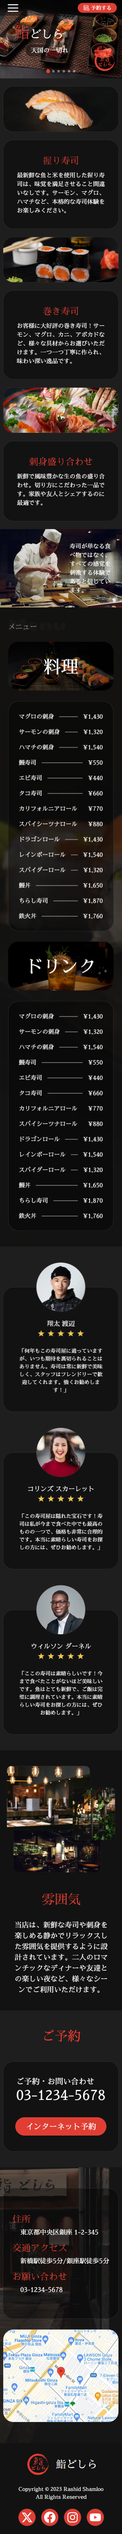
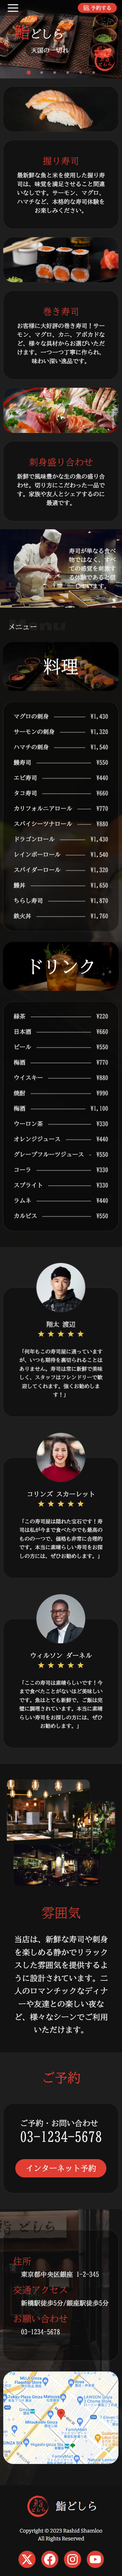
- changed the font from sawarabi mincho because it was missing a needed glyph
- added separate fonts for the japanese and english versions

- fixed the dataId usage in MenuItems component

- adjusted the size of the preparation section

- adjusted size of text in testimonial section

- adjusted the footer section for better line breaks

- added sr-only titles for sections that ere missing it

- updated screenshots reflecting new changes

Changed region(s): [[0.0, 0.0, 1.0, 0.9981], [0.0, 0.3119, 0.088, 0.3431]]

diff --git a/src/components/Preparation/Preparation.tsx b/src/components/Preparation/Preparation.tsx
@@ -10,7 +10,8 @@ import Reveal from '../common/Reveal';
 const Preparation = () => {
   const t = useTranslations('Preparation');
   return (
-    <section className="relative h-[240px] w-full overflow-hidden md:h-screen">
+    <section className="relative flex h-[240px] w-full items-center justify-center overflow-hidden sm:h-[360px] md:h-screen">
+      <h2 className="sr-only">{t('title')}</h2>
       <Image
         src="/images/preparation/bg.jpg"
         alt="Background"
@@ -18,13 +19,15 @@ const Preparation = () => {
         width="10"
         height="10"
         sizes="115vw"
-        className="absolute right-0 w-auto min-w-[115vw] max-w-none md:min-h-full"
+        className="absolute right-0 top-0 w-auto min-w-[115vw] max-w-none md:min-h-full"
       />
-      <Reveal className="absolute right-[5%] top-1/2 max-w-[40%] -translate-y-1/2 rounded-[32px] bg-black/10 p-2 md:p-[48px]">
-        <p className="text-[clamp(18px,4px_+_3vw,50px)] drop-shadow-md">
-          {t('preparation')}
-        </p>
-      </Reveal>
+      <div className="relative h-full w-[1296px] max-w-[95%]">
+        <Reveal className="absolute right-0 top-1/2 max-w-[46%] -translate-y-1/2 rounded-[32px] bg-black/10 p-2 md:right-[5%] md:p-[48px] lg:right-0">
+          <p className="text-center text-[clamp(18px,4px_+_3vw,50px)] drop-shadow-md">
+            {t('preparation')}
+          </p>
+        </Reveal>
+      </div>
     </section>
   );
 };

diff --git a/src/components/Footer/Footer.tsx b/src/components/Footer/Footer.tsx
@@ -4,6 +4,9 @@ import Image from 'next/image';
 // next-intl
 import { useTranslations } from 'next-intl';
 
+// fonts
+import { bitter } from '@/ui/fonts';
+
 // components
 import SocialMediaLinks from './SocialMediaLinks';
 
@@ -12,7 +15,7 @@ const Footer = () => {
   return (
     <footer className="flex items-center justify-center bg-bgDarkGray py-[24px]">
       <div className="flex w-[1296px] max-w-[95%] flex-col items-center justify-between gap-[24px] lg:flex-row">
-        <div className="flex items-center justify-center gap-[16px] lg:gap-[20px]">
+        <div className="flex flex-shrink-0 items-center justify-center gap-[16px] lg:gap-[20px]">
           <Image
             src="/images/logo.png"
             alt={t('logo')}
@@ -24,8 +27,13 @@ const Footer = () => {
           />
           <p className="text-[clamp(32px,20px_+_2vw,60px)]">{t('title')}</p>
         </div>
-        <div className="text-center text-[clamp(16px,4px_+_2vw,20px)]">
-          <p>Copyright © 2023 Rashid Shamloo</p>
+        <div
+          className={`${bitter.variable} font-bitter w-full text-center text-[clamp(16px,4px_+_2vw,20px)]`}
+        >
+          <p>
+            <span className="inline-block">Copyright © 2023</span>&nbsp;
+            <span className="inline-block">Rashid Shamloo</span>
+          </p>
           <p>All Rights Reserved</p>
         </div>
         <SocialMediaLinks />

diff --git a/src/components/Menu/Menu.tsx b/src/components/Menu/Menu.tsx
@@ -20,6 +20,7 @@ const Menu = () => {
       id="menu"
       className="relative overflow-auto pb-[48px] pt-[24px] md:pb-[96px] md:pt-[48px]"
     >
+      <h2 className="sr-only">{t('menu')}</h2>
       <Image
         src="/images/menu/bg.jpg"
         alt="Background"
@@ -37,10 +38,10 @@ const Menu = () => {
           width="400"
           height="126"
           sizes="(max-width: 480px) 180px, (max-width: 1024px) 250px, 350px"
-          className="mb-[24px] ml-[24px] w-[180px] md:mb-[48px] md:ml-[48px] md:w-[250px] lg:w-[350px]"
+          className="relative mb-[24px] ml-[24px] w-[180px] md:mb-[48px] md:ml-[48px] md:w-[250px] lg:w-[350px]"
         />
       </div>
-      <div className="mx-auto flex max-w-[95%] flex-col items-center justify-evenly gap-x-[16px] gap-y-[32px] text-[clamp(18px,4px_+_1.75vw,20px)] md:flex-row md:items-start lg:max-w-full xl:w-[1296px]">
+      <div className="relative mx-auto flex max-w-[95%] flex-col items-center justify-evenly gap-x-[16px] gap-y-[32px] text-[clamp(18px,4px_+_1.75vw,20px)] md:flex-row md:items-start lg:max-w-full xl:w-[1296px]">
         {menu.map((menuItem, i) => (
           <MenuList
             key={i}

diff --git a/src/components/SushiTypes/SushiTypes.tsx b/src/components/SushiTypes/SushiTypes.tsx
@@ -17,6 +17,7 @@ const SushiTypes = () => {
   const t = useTranslations('SushiTypes');
   return (
     <section className="flex flex-col items-center justify-center gap-[24px] py-[24px] md:gap-[48px] md:py-[48px]">
+      <h2 className="sr-only">{t('title')}</h2>
       {sushiTypes.map((item, i) => (
         <article
           className={clsx(
@@ -42,10 +43,10 @@ const SushiTypes = () => {
             className="flex"
           >
             <div className="flex flex-col items-center justify-center gap-[10px] rounded-[32px] border-[1px] border-borderGray bg-bgDarkGray p-[42px] md:items-start md:px-[32px] md:py-[16px] lg:px-[64px]">
-              <h2 className="text-[clamp(28px,10px_+_2vw,40px)] text-accent">
+              <h3 className="text-[clamp(28px,10px_+_2vw,40px)] text-accent">
                 {t(`${item.title}Title`)}
-              </h2>
-              <p className="text-[clamp(18px,8px_+_1vw,26px)]">
+              </h3>
+              <p className="text-center text-[clamp(18px,8px_+_1vw,26px)] md:text-left">
                 {t(`${item.title}Description`)}
               </p>
             </div>

diff --git a/src/components/Header/NavMenu/LanguageSelect.tsx b/src/components/Header/NavMenu/LanguageSelect.tsx
@@ -2,6 +2,9 @@
 import { useLocale } from 'next-intl';
 import Link from 'next-intl/link';
 
+// fonts
+import { bizudMincho, bitter } from '@/ui/fonts';
+
 // clsx
 import clsx from 'clsx';
 
@@ -15,19 +18,21 @@ const LanguageSelect = () => {
       <Link
         href="/"
         locale="en"
-        className={
-          locale === 'en' ? 'scale-110 font-bold text-accent' : navHover
-        }
+        className={clsx(
+          `${bitter.variable} font-bitter`,
+          locale === 'en' ? 'scale-110 font-bold text-accent' : navHover,
+        )}
       >
         English
       </Link>
-      &nbsp;&nbsp;/&nbsp;&nbsp;
+      <span className="mx-3">/</span>
       <Link
         href="/"
         locale="ja"
-        className={
-          locale === 'ja' ? 'scale-110 font-bold text-accent' : navHover
-        }
+        className={clsx(
+          `${bizudMincho.variable} font-bizudMincho`,
+          locale === 'ja' ? 'scale-110 font-bold text-accent' : navHover,
+        )}
       >
         日本語
       </Link>

diff --git a/src/app/[locale]/layout.tsx b/src/app/[locale]/layout.tsx
@@ -4,12 +4,16 @@ import type { Metadata } from 'next';
 // next-intl
 import { NextIntlClientProvider } from 'next-intl';
 
+// clsx
+import clsx from 'clsx';
+
 // tailwind styles
 import '@/styles/globals.css';
 
 // fonts
-import { sawarabiMincho } from '@/ui/fonts';
+import { bizudMincho, bitter } from '@/ui/fonts';
 
+// metadata
 export const metadata: Metadata = {
   title: 'Sushi Doshira by Rashid Shamloo',
   description: 'Japanese Sushi Restaurant Website by Rashid Shamloo',
@@ -67,7 +71,12 @@ export default async function LocaleLayout({
   } catch (error) {}
   return (
     <html lang={locale} className="scroll-smooth">
-      <body className={`bg-bgGray text-white ${sawarabiMincho.className}`}>
+      <body
+        className={clsx(
+          'bg-bgGray text-white',
+          locale === 'ja' ? bizudMincho.className : bitter.className,
+        )}
+      >
         <NextIntlClientProvider locale={locale} messages={messages}>
           {children}
         </NextIntlClientProvider>

diff --git a/src/components/Testimonials/Testimonials.tsx b/src/components/Testimonials/Testimonials.tsx
@@ -14,6 +14,7 @@ const Testimonials = () => {
   const t = useTranslations('Testimonials');
   return (
     <section className="mx-auto flex max-w-[95%] flex-col items-center justify-evenly gap-[48px] py-[48px] md:flex-row md:gap-[16px] xl:justify-center xl:gap-[48px]">
+      <h2 className="sr-only">{t('title')}</h2>
       {testimonials.map((testimonial, i) => (
         <Reveal
           key={i}
@@ -36,7 +37,9 @@ const Testimonials = () => {
                   className="pointer-events-none select-none"
                 />
               </div>
-              <p className="text-center">{t(`${testimonial.id}Testimonial`)}</p>
+              <p className="text-center text-[clamp(16px,4px_+_2vw,18px)] leading-[1.65]">
+                {t(`${testimonial.id}Testimonial`)}
+              </p>
             </div>
           </article>
         </Reveal>

diff --git a/src/components/Menu/MenuItems.tsx b/src/components/Menu/MenuItems.tsx
@@ -17,12 +17,12 @@ const MenuItems = ({
     <div className="relative flex flex-col gap-[20px] rounded-[32px] border-[1px]  border-borderGray bg-black/40 p-[32px]">
       {[...Array(itemCount)].map((_, i) => (
         <div key={i} className="flex items-center justify-between">
-          <p className="flex-shrink-0">{t(`mainDishesItems.${i + 1}.title`)}</p>
+          <p className="flex-shrink-0">{t(`${dataId}Items.${i + 1}.title`)}</p>
           <div className="mx-4 mt-[2px] h-[1px] w-full bg-white"></div>
           <p>
             {t('currency')}
             {locale === 'ja'
-              ? addComma(t(`mainDishesItems.${i + 1}.price`))
+              ? addComma(t(`${dataId}Items.${i + 1}.price`))
               : t(`mainDishesItems.${i + 1}.price`)}
           </p>
         </div>

diff --git a/src/components/Access/Access.tsx b/src/components/Access/Access.tsx
@@ -1,16 +1,21 @@
 // next
 import Image from 'next/image';
 
+// next-intl
+import { useTranslations } from 'next-intl';
+
 // components
 import AccessInformation from './AccessInformation';
 import Reveal from '@/components/common/Reveal';
 
 const Access = () => {
+  const t = useTranslations('Access');
   return (
     <section
       id="access"
       className="relative flex items-center justify-center py-[64px] md:py-[128px]"
     >
+      <h2 className="sr-only">{t('title')}</h2>
       <Image
         src="/images/access/bg.jpg"
         alt="Background"

diff --git a/tailwind.config.ts b/tailwind.config.ts
@@ -18,7 +18,7 @@ const config: Config = {
       keyframes: {
         zoom: {
           '0%': { scale: '1' },
-          '100%': { scale: '1.5' },
+          '100%': { scale: '1' },
         },
         scroll: {
           '0%': { translate: '0% 0%', opacity: '1' },
@@ -28,6 +28,10 @@ const config: Config = {
       animation: {
         zoom: 'zoom 25s linear forwards',
         scroll: 'scroll 1.75s ease-in forwards infinite',
+      },
+      fontFamily: {
+        bitter: 'var(--bitter)',
+        bizudMincho: 'var(--bizudMincho)',
       },
     },
   },

diff --git a/src/ui/fonts.ts b/src/ui/fonts.ts
@@ -1,7 +1,14 @@
 // next font
-import { Sawarabi_Mincho } from 'next/font/google';
+import { BIZ_UDMincho, Bitter } from 'next/font/google';
 
-export const sawarabiMincho = Sawarabi_Mincho({
+export const bizudMincho = BIZ_UDMincho({
   weight: ['400'],
   subsets: ['latin'],
+  variable: '--bizudMincho',
+});
+
+export const bitter = Bitter({
+  weight: ['400'],
+  subsets: ['latin'],
+  variable: '--bitter',
 });

diff --git a/src/components/Atmosphere/Atmosphere.tsx b/src/components/Atmosphere/Atmosphere.tsx
@@ -30,7 +30,7 @@ const Atmosphere = () => {
             <h2 className="text-[clamp(40px,20px_+_3vw,60px)] text-accent">
               {t('title')}
             </h2>
-            <p className="text-center text-[clamp(22px,4px_+_2vw,28px)]">
+            <p className="text-center text-[clamp(24px,4px_+_2vw,28px)] leading-[1.65]">
               {t('description')}
             </p>
           </div>
